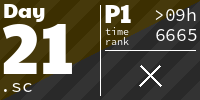
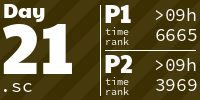
feat(day21): part 2

diff --git a/README.md b/README.md
@@ -2,7 +2,7 @@
 
 <!-- AOC TILES BEGIN -->
 <h1 align="center">
-  2024 - 41 ⭐ - SuperCollider
+  2024 - 42 ⭐ - SuperCollider
 </h1>
 <a href="2024/day01.sc">
   <img src=".aoc_tiles/tiles/2024/01.png" width="161px">
